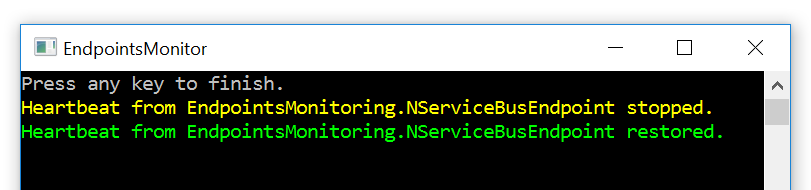
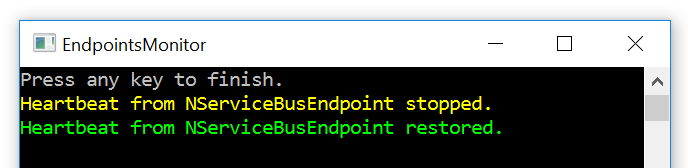
add code walk-through

diff --git a/samples/servicecontrol/events-subscription/ServiceControlContracts_1/NServiceBusEndpoint/Program.cs b/samples/servicecontrol/events-subscription/ServiceControlContracts_1/NServiceBusEndpoint/Program.cs
@@ -13,8 +13,8 @@ namespace NServiceBusEndpoint
 
         static async Task AsyncMain()
         {
-            Console.Title = "EndpointsMonitoring.NServiceBusEndpoint";
-            var endpointConfiguration = new EndpointConfiguration("EndpointsMonitoring.NServiceBusEndpoint");
+            Console.Title = "NServiceBusEndpoint";
+            var endpointConfiguration = new EndpointConfiguration("NServiceBusEndpoint");
             endpointConfiguration.UseSerialization<JsonSerializer>();
             endpointConfiguration.EnableInstallers();
             endpointConfiguration.UsePersistence<InMemoryPersistence>();
@@ -41,7 +41,7 @@ namespace NServiceBusEndpoint
 
                     var guid = Guid.NewGuid();
 
-                    await endpointInstance.Send("EndpointsMonitoring.NServiceBusEndpoint", new SimpleMessage{ Id = guid });
+                    await endpointInstance.Send("NServiceBusEndpoint", new SimpleMessage{ Id = guid });
                     Console.WriteLine($"Sent a new message with Id = {guid}.");
 
                     Console.WriteLine("Press 'Enter' to send a new message. Press any other key to finish.");

diff --git a/samples/servicecontrol/events-subscription/ServiceControlContracts_1/EndpointsMonitor/CustomEventsHandler.cs b/samples/servicecontrol/events-subscription/ServiceControlContracts_1/EndpointsMonitor/CustomEventsHandler.cs
@@ -5,6 +5,8 @@ using ServiceControl.Contracts;
 
 namespace EndpointsMonitor
 {
+    #region ServiceControlEventsHandlers
+
     public class CustomEventsHandler : 
         IHandleMessages<MessageFailed>, 
         IHandleMessages<HeartbeatStopped>, 
@@ -35,4 +37,6 @@ namespace EndpointsMonitor
             return Task.FromResult(0);
         }
     }
+
+    #endregion
 }

diff --git a/samples/servicecontrol/events-subscription/sample.md b/samples/servicecontrol/events-subscription/sample.md
@@ -6,12 +6,15 @@ tags:
 - ServiceControl
 related:
 - servicecontrol/contracts
+- servicecontrol/plugins/
+- samples/custom-checks/monitoring3rdparty/
 ---
 
 ## Prerequisistes
 
 1. [Install ServiceControl](/servicecontrol/installation).
 1. Using [ServiceControl Management Utility](/servicecontrol/license#licensing-servicecontrol-servicecontrol-management-utility) tool, set up ServiceControl to monitor endpoints using MSMQ transport.
+1. Make sure the `ServiceControl` process is running before running the sample. 
 
 
 ## Running the project
@@ -23,7 +26,7 @@ The project presents how to handle two kinds of events:
 
 A `MessageFailed` event is emitted whenever processing a message fails and message is moved to the error queue.
 
-In order to observe that, press `Enter` in the `EndpointsMonitoring.NServiceBusEndpoint` console window. That will send a new `SimpleMessage`. Processing of the message fails every time.
+In order to observe that, press `Enter` in the `NServiceBusEndpoint` console window. That will send a new `SimpleMessage`. Processing of the message fails every time.
 
 When a `MessageFailed` event is received, the `EndpointsMonitor` prints a red `Received ServiceControl 'MessageFailed' event for a SimpleMessage.` text in its console window.
 
@@ -36,11 +39,29 @@ The `HeartbeatStopped` event is emitted whenever an endpoint fails to send a con
 
 Note that Monitor needs to receive at least one control message, before it can observe that endpoint stopped responding, and that `HeartbeatStopped` event is emitted only following the `HeartbeatStopped` event. 
 
-In order to observe that, stop the `EndpointsMonitoring.NServiceBusEndpoint` application and wait for up to 30 seconds. When a `HeartbeatStopped` event is received, the `EndpointsMonitor` prints a yellow `Heartbeat from EndpointsMonitoring.NServiceBusEndpoint stopped.` text in its console window.
+In order to observe that, stop the `NServiceBusEndpoint` application and wait for up to 30 seconds. When a `HeartbeatStopped` event is received, the `EndpointsMonitor` prints a yellow `Heartbeat from NServiceBusEndpoint stopped.` text in its console window.
 
-Then restart the `EndpointsMonitoring.NServiceBusEndpoint` application and wait for up to 30 seconds. When a `HeartbeatRestored` event is received, the `EndpointsMonitor` prints a green `Heartbeat from EndpointsMonitoring.NServiceBusEndpoint restored.` text in its console window.
+Then restart the `NServiceBusEndpoint` application and wait for up to 30 seconds. When a `HeartbeatRestored` event is received, the `EndpointsMonitor` prints a green `Heartbeat from EndpointsMonitoring.NServiceBusEndpoint restored.` text in its console window.
 
 ![Heartbeat events](images/heartbeats_events.png)
 
 
 ## Code walk-through 
+
+The solution consists of two projects. The `NServiceBusEndpoint` is a simple endpoint which is monitored by the `EndpointsMonitor`.
+
+
+### NServiceBusEndpoint
+
+The `MessageFailed` event is published for any standard NServiceBus endpoint that is monitored by ServiceControl.
+
+In order to receive `HeartbeatStopped` and `HeartbeatRestored` events, the endpoint needs to use the [heartbeats plugin](/servicecontrol/plugins/heartbeat.md).
+
+NOTE: Hearbeat control messages are sent [every 30 seconds by default](/servicecontrol/plugins/heartbeat.md#configuration-ttl). That means there might be up to 30 seconds delay before ServiceControl realizes that it lost or restored connection with the endpoint. 
+
+
+### EndpointsMonitor
+
+In order to get notifications when the exposed ServiceControl events occur, create an NServiceBus endpoint. Then reference the `ServiceControl.Contracts` NuGet package and implement a handler which handles ServiceControl events:
+
+snippet:ServiceControlEventsHandlers
